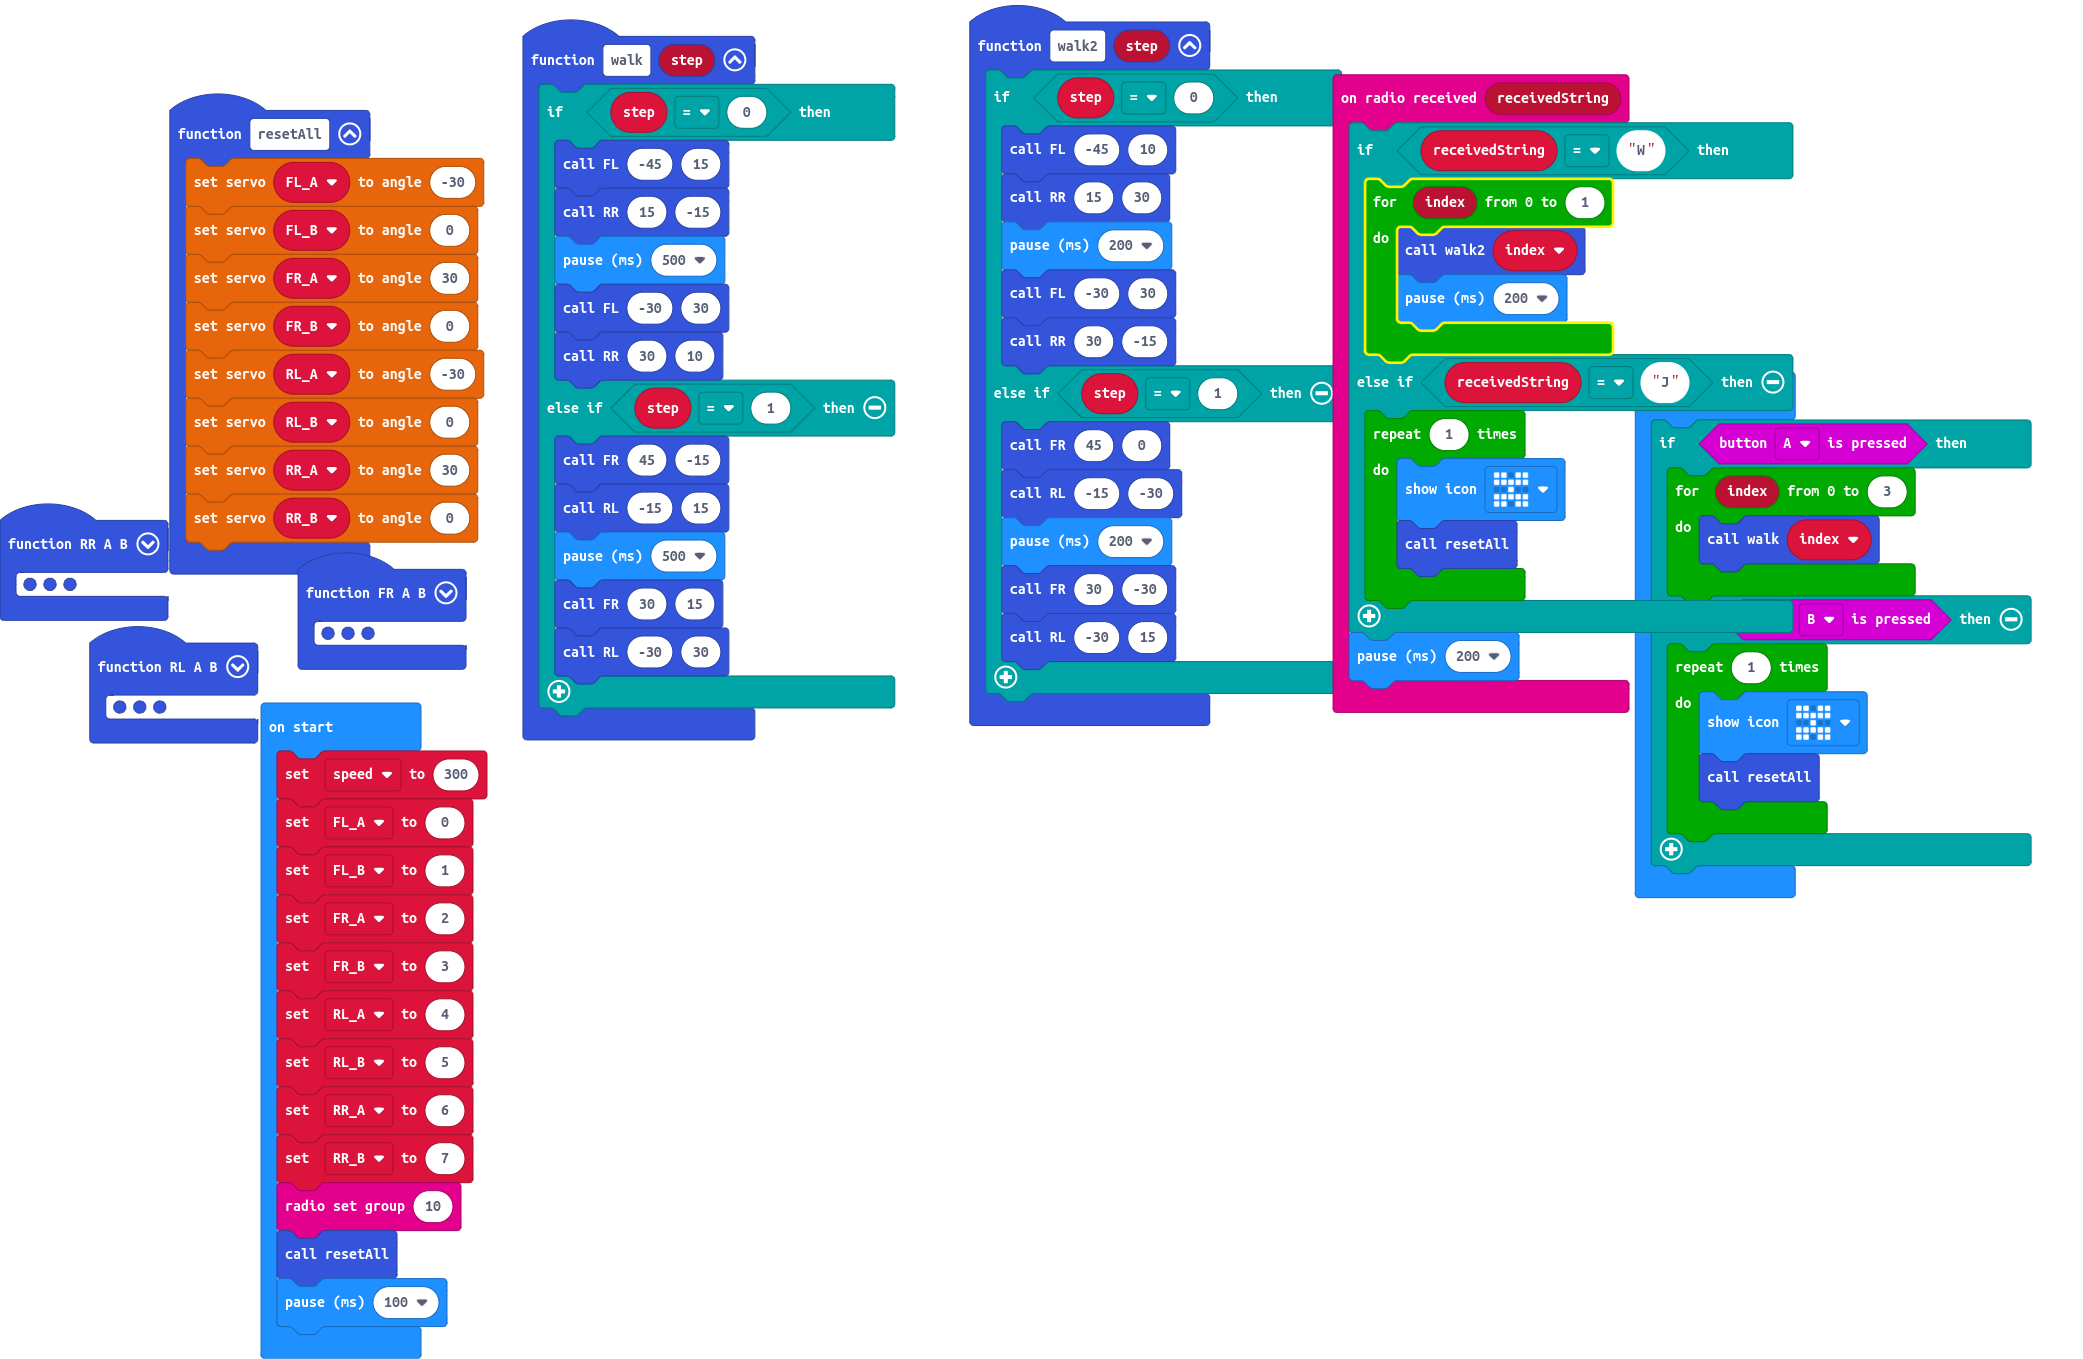
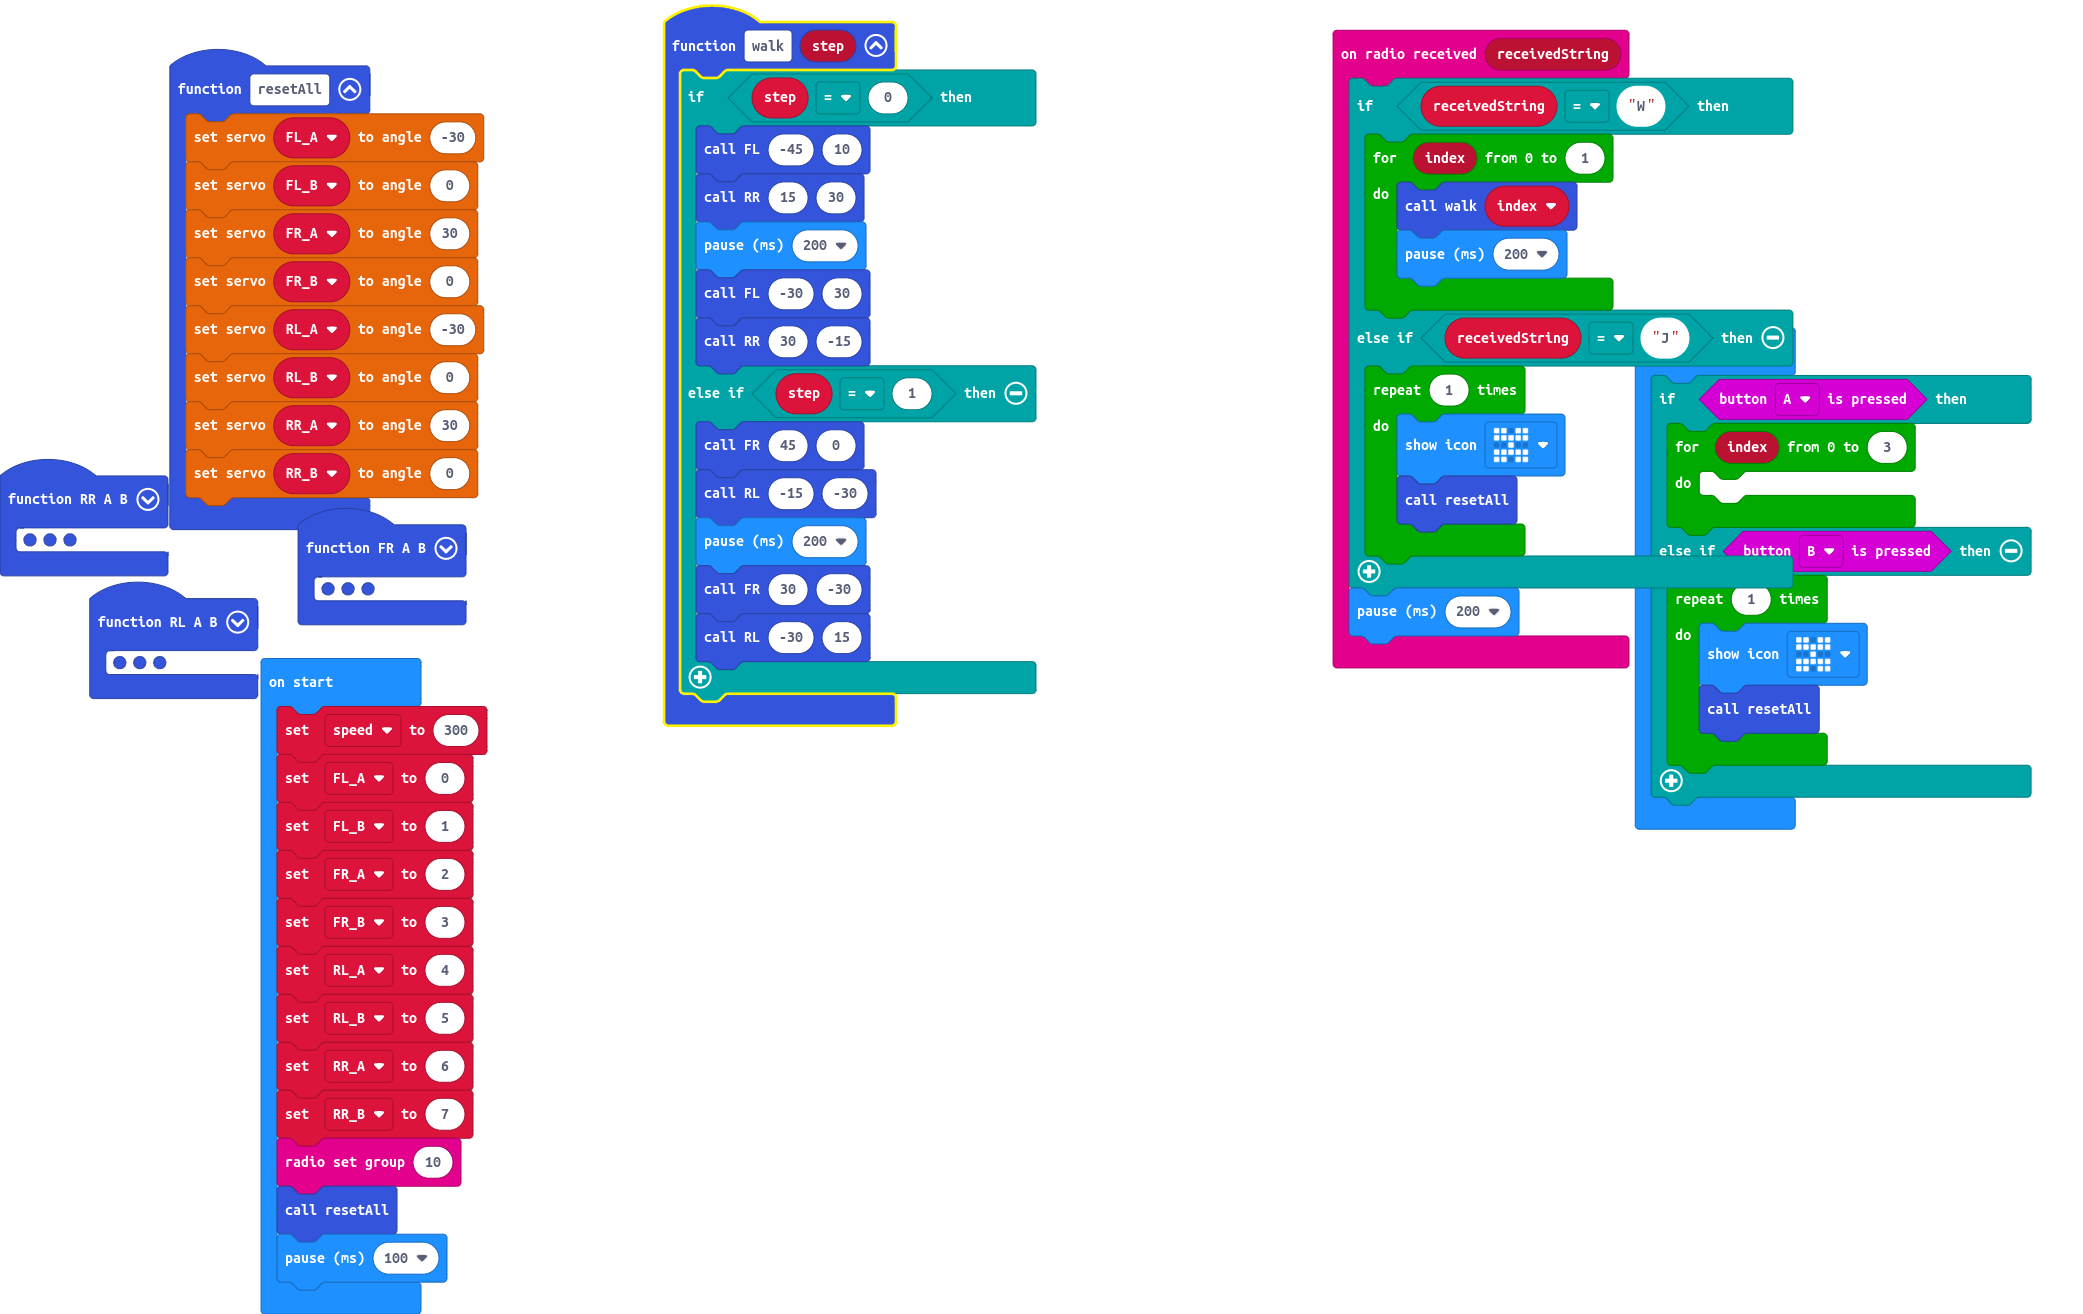
delete the testing "walk" function and move on with the one that walks

Changed region(s): [[0.0, 0.0, 0.9986, 0.9673], [0.1248, 0.9985, 0.2184, 1.0]]

diff --git a/main.ts b/main.ts
@@ -10,17 +10,17 @@ function FL (A: number, B: number) {
 }
 function walk (step: number) {
     if (step == 0) {
-        FL(-45, 15)
-        RR(15, -15)
-        basic.pause(500)
+        FL(-45, 10)
+        RR(15, 30)
+        basic.pause(200)
         FL(-30, 30)
-        RR(30, 10)
+        RR(30, -15)
     } else if (step == 1) {
-        FR(45, -15)
-        RL(-15, 15)
-        basic.pause(500)
-        FR(30, 15)
-        RL(-30, 30)
+        FR(45, 0)
+        RL(-15, -30)
+        basic.pause(200)
+        FR(30, -30)
+        RL(-30, 15)
     }
 }
 function resetAll () {
@@ -38,25 +38,10 @@ function RR (A: number, B: number) {
     ServoBit.waitServo(RR_A)
     ServoBit.setServo(RR_B, B)
 }
-function walk2 (step: number) {
-    if (step == 0) {
-        FL(-45, 10)
-        RR(15, 30)
-        basic.pause(200)
-        FL(-30, 30)
-        RR(30, -15)
-    } else if (step == 1) {
-        FR(45, 0)
-        RL(-15, -30)
-        basic.pause(200)
-        FR(30, -30)
-        RL(-30, 15)
-    }
-}
 radio.onReceivedString(function (receivedString) {
     if (receivedString == "W") {
         for (let index = 0; index <= 1; index++) {
-            walk2(index)
+            walk(index)
             basic.pause(200)
         }
     } else if (receivedString == "J") {
@@ -95,7 +80,7 @@ basic.pause(100)
 basic.forever(function () {
     if (input.buttonIsPressed(Button.A)) {
         for (let index = 0; index <= 3; index++) {
-            walk(index)
+        	
         }
     } else if (input.buttonIsPressed(Button.B)) {
         for (let index = 0; index < 1; index++) {
